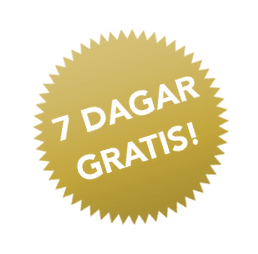
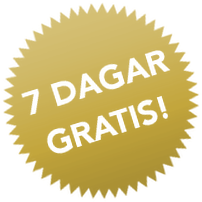
UI fixes, trying out new background, cropped sticker.

diff --git a/assets/stylesheets/app/app.css b/assets/stylesheets/app/app.css
@@ -68,7 +68,7 @@ input:focus.ng-valid {
 
 /*Background image for entire app*/
 body { 
-	background: url(/images/stockholmsvy.jpg) no-repeat center center fixed; 
+	background: url(/images/gamla_stan_cc_attribution.jpg) no-repeat center center fixed; 
 	-webkit-background-size: cover;
 	-moz-background-size: cover;
 	-o-background-size: cover;
@@ -116,7 +116,7 @@ hero-unit h2 {
 /*Set element background to white and make that same BACKGROUND transparent*/
 .opaque {
   background: rgb(255, 255, 255) transparent; /* default fallback */
-  background: rgba(255, 255, 255, 0.8); /* nice browsers */
+  background: rgba(255, 255, 255, 0.9); /* nice browsers */
   filter:progid:DXImageTransform.Microsoft.gradient(startColorstr=#CCFFFFFF, endColorstr=#CCFFFFFF); /* IE 6/7 */
   -ms-filter: "progid:DXImageTransform.Microsoft.gradient(startColorstr=#CCFFFFFF, endColorstr=#CCFFFFFF)"; /* IE8 */
 }
@@ -293,7 +293,7 @@ Bootstrap extensions
   vertical-align: bottom;
 }
 
-#credits {
+.footer-text {
   display: block;
   margin-top: 30px;
   text-align: right;
@@ -336,8 +336,8 @@ Media queries
  
 /* Landscape phone to portrait tablet */
 @media (max-width: 767px) {
-  #credits {
-    text-align: inherit;
+  .footer-text {
+    text-align: inherit !important;
   }
 
   h1 {
